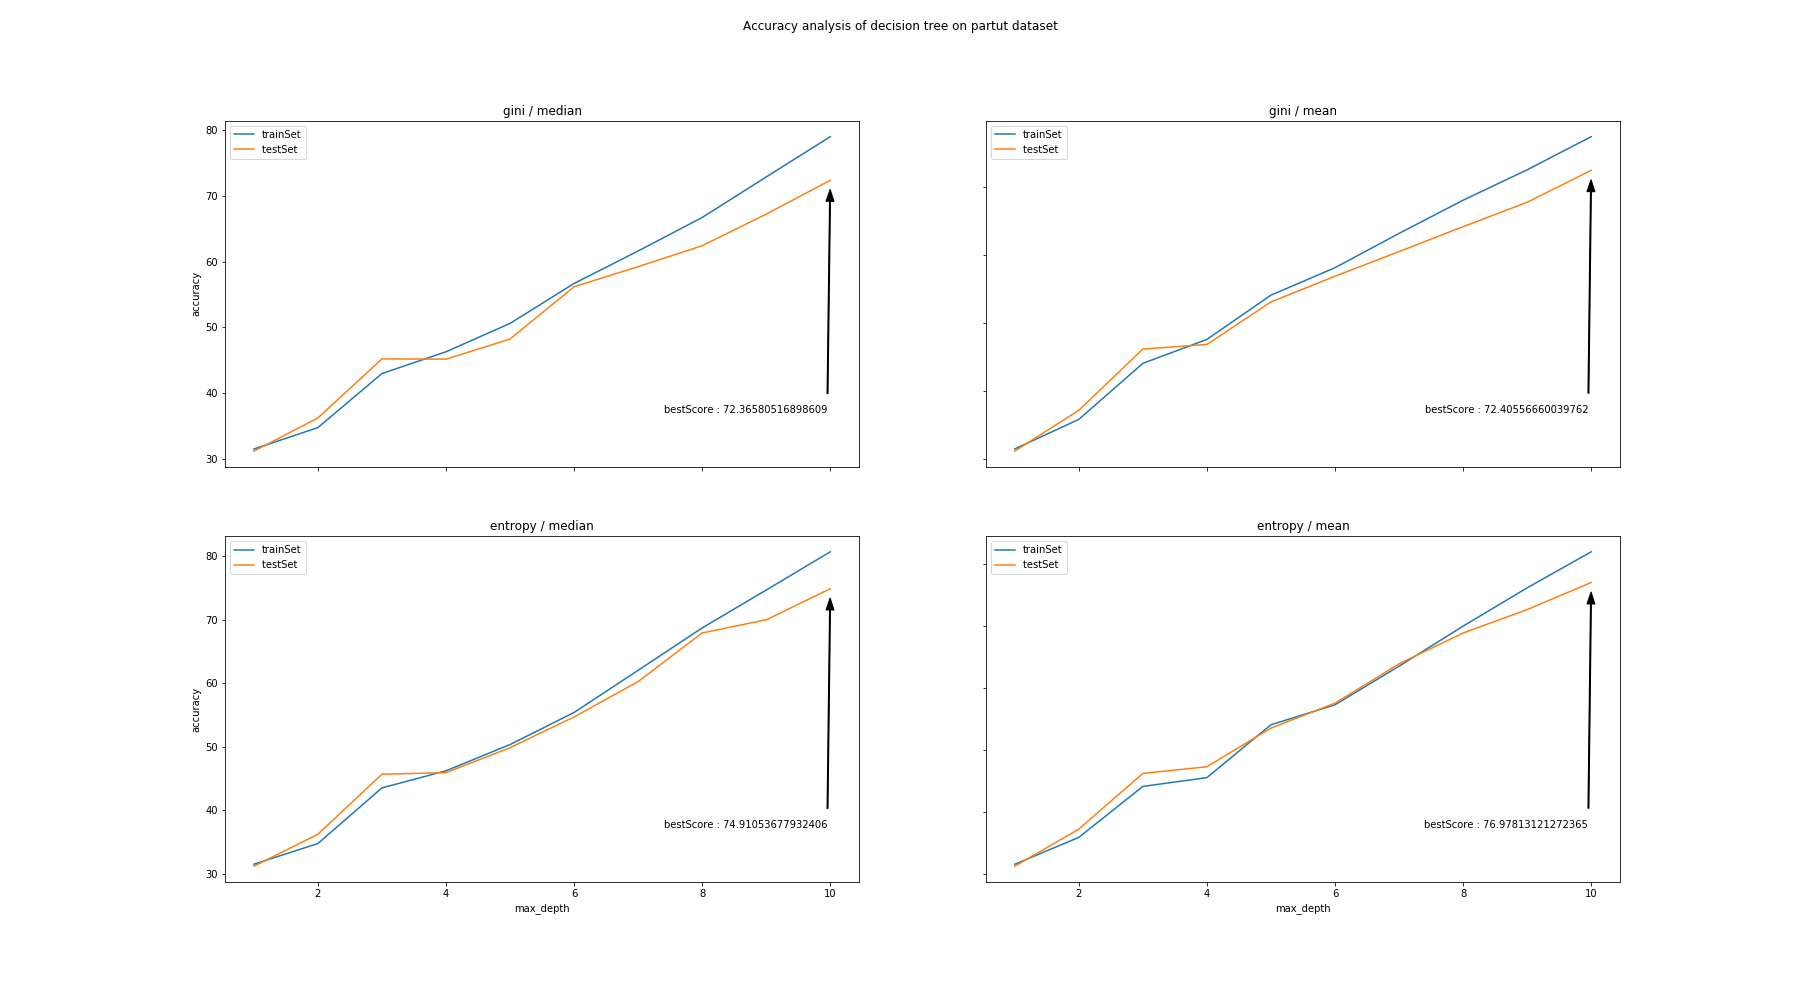
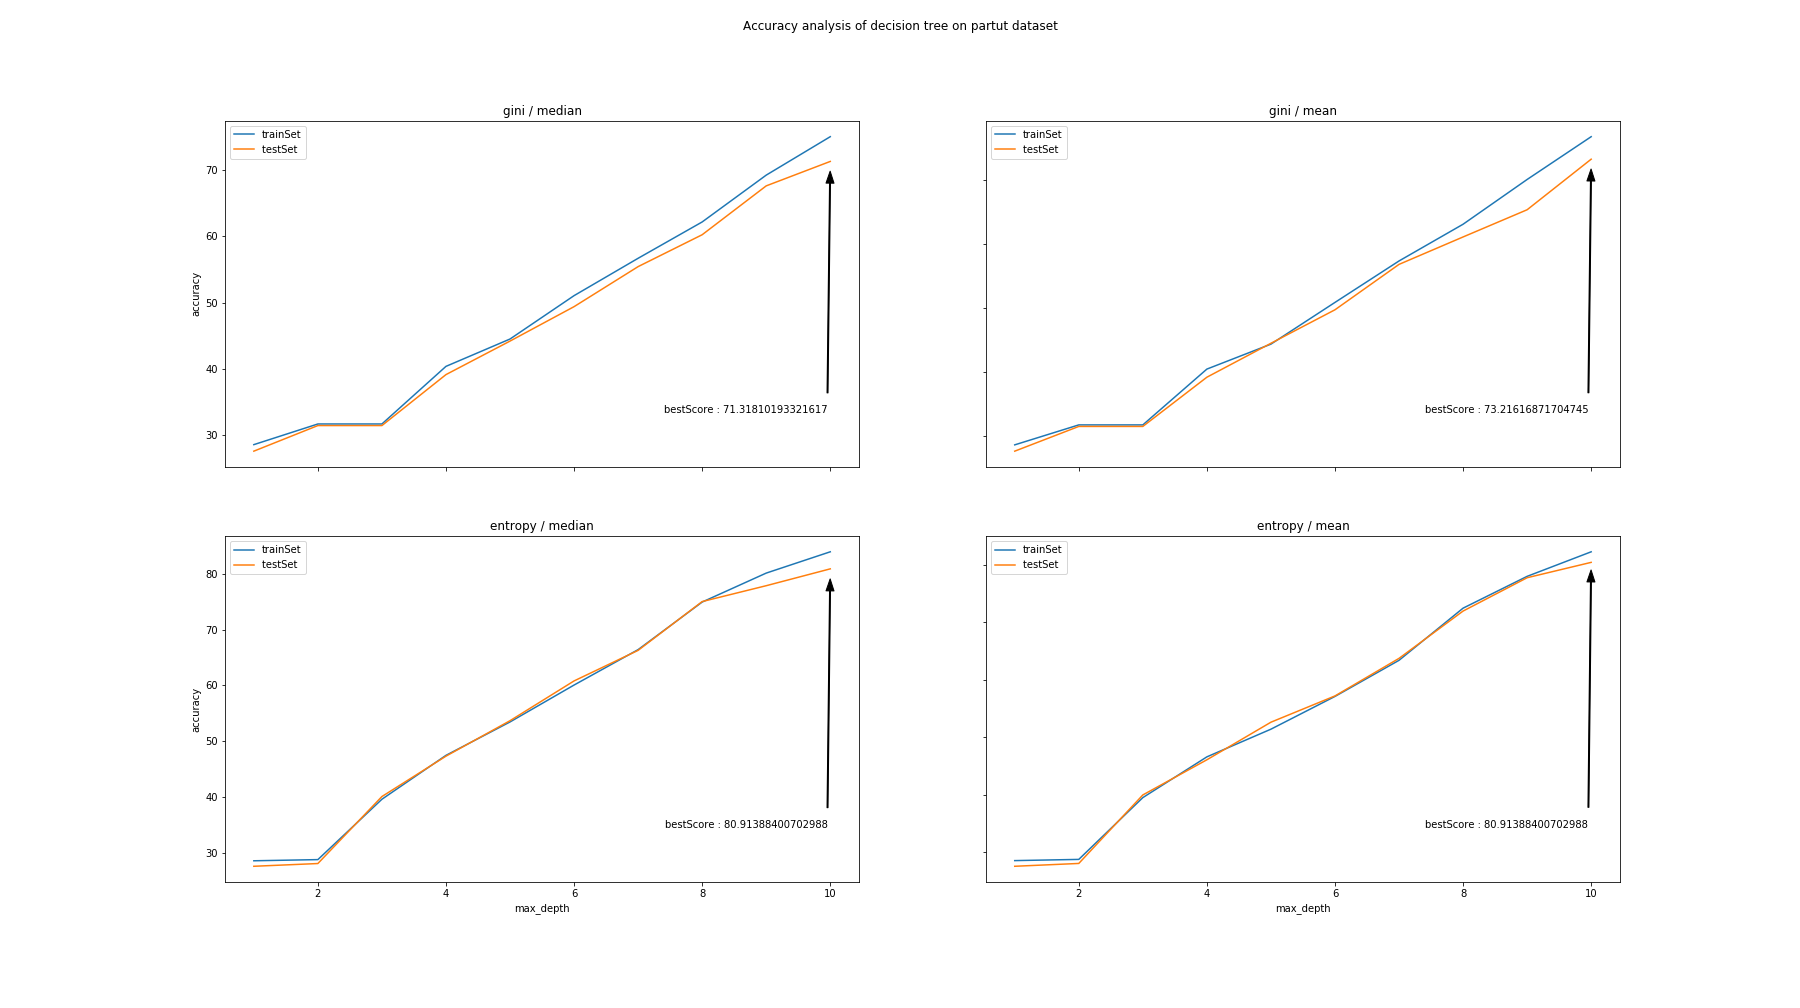
end of decision tree

diff --git a/src/DecisionTreeClassifier.py b/src/DecisionTreeClassifier.py
@@ -51,22 +51,18 @@ def extract_features(s, i, transform=lambda x: x):
     return tuple(f(s, i, transform) for f in features().values())
 
 
-def preprocessSentence(dataset):
-    begin_s = "<s>"
-    end_s = "</s>"
-    for d in dataset.data:
-        d.sentence = [begin_s, begin_s] + d.sentence + [end_s, end_s]
-        d.labels = [begin_s, begin_s] + d.labels + [end_s, end_s]
-
 # extrait les features de tous le corpus train
 def buildFeature(dataset):
-    preprocessSentence(dataset)
+    begin_s = "<s>"
+    end_s = "</s>"
+    
     X = []
     Y = []
     for d in dataset.data:
-        X += [extract_features(d.sentence, i, transform=hash)
-              for i in range(2, len(d.sentence) - 3)]
-        Y += d.labels[2:-3]
+        sentence = [begin_s, begin_s] + d.sentence + [end_s, end_s]
+        X += [extract_features(sentence, i, transform=hash)
+              for i in range(2, len(sentence) - 2)]
+        Y += d.labels
     return np.array(X), np.array(Y)
 
 
@@ -108,9 +104,9 @@ class DecisionTreeClassifier:
             res -= prob * math.log2(prob)
         return res
     
-    # Fonction permettant de calculer le degé d'impureté de l'ensemble Y
+    # Fonction permettant de calculer le degré d'impureté de l'ensemble Y
     def computeGiniImpurity(self, Y):
-        return 1 - np.sum( (occur / Y.size) ** 2 for _, occur in Counter(Y).items())
+        return 1 - np.sum( (occur / np.shape(Y)[0]) ** 2 for _, occur in Counter(Y).items())
 
     def mean(self, X, f):
         return np.mean(np.unique(X[:, f]))
@@ -137,6 +133,7 @@ class DecisionTreeClassifier:
         # Plus l'entropie est faible, plus l'on a d'information sur l'ensemble actuelle
         if self.split_criterion == "entropy":
             entropyY = self.computeEntropy(Y)
+            
 
         # Les variables permettant de garder les données du meilleurs test
         bestFeature = 0
@@ -159,8 +156,7 @@ class DecisionTreeClassifier:
             elif self.gen_test == "median":
                 test = self.median(X, f)
 
-            #print(test)
-            #print(type(Y))
+
 
             yes_index = X[:, f] <= test
             no_index = np.logical_not(yes_index)
@@ -308,9 +304,9 @@ class DecisionTreeClassifier:
             print('-', end="")
             print(s, end="")
             print('-> ', end="")
-        if type(tree) == int: # leaf
+        if type(tree) == int: # feuille
             print("class ", self.labelClass[tree])
-        else: # internal node
+        else: # noeud interne
             feature, test = tree[0]
             feature = list(features().keys())[feature]
             print(feature, " <= ", test, " ?")
